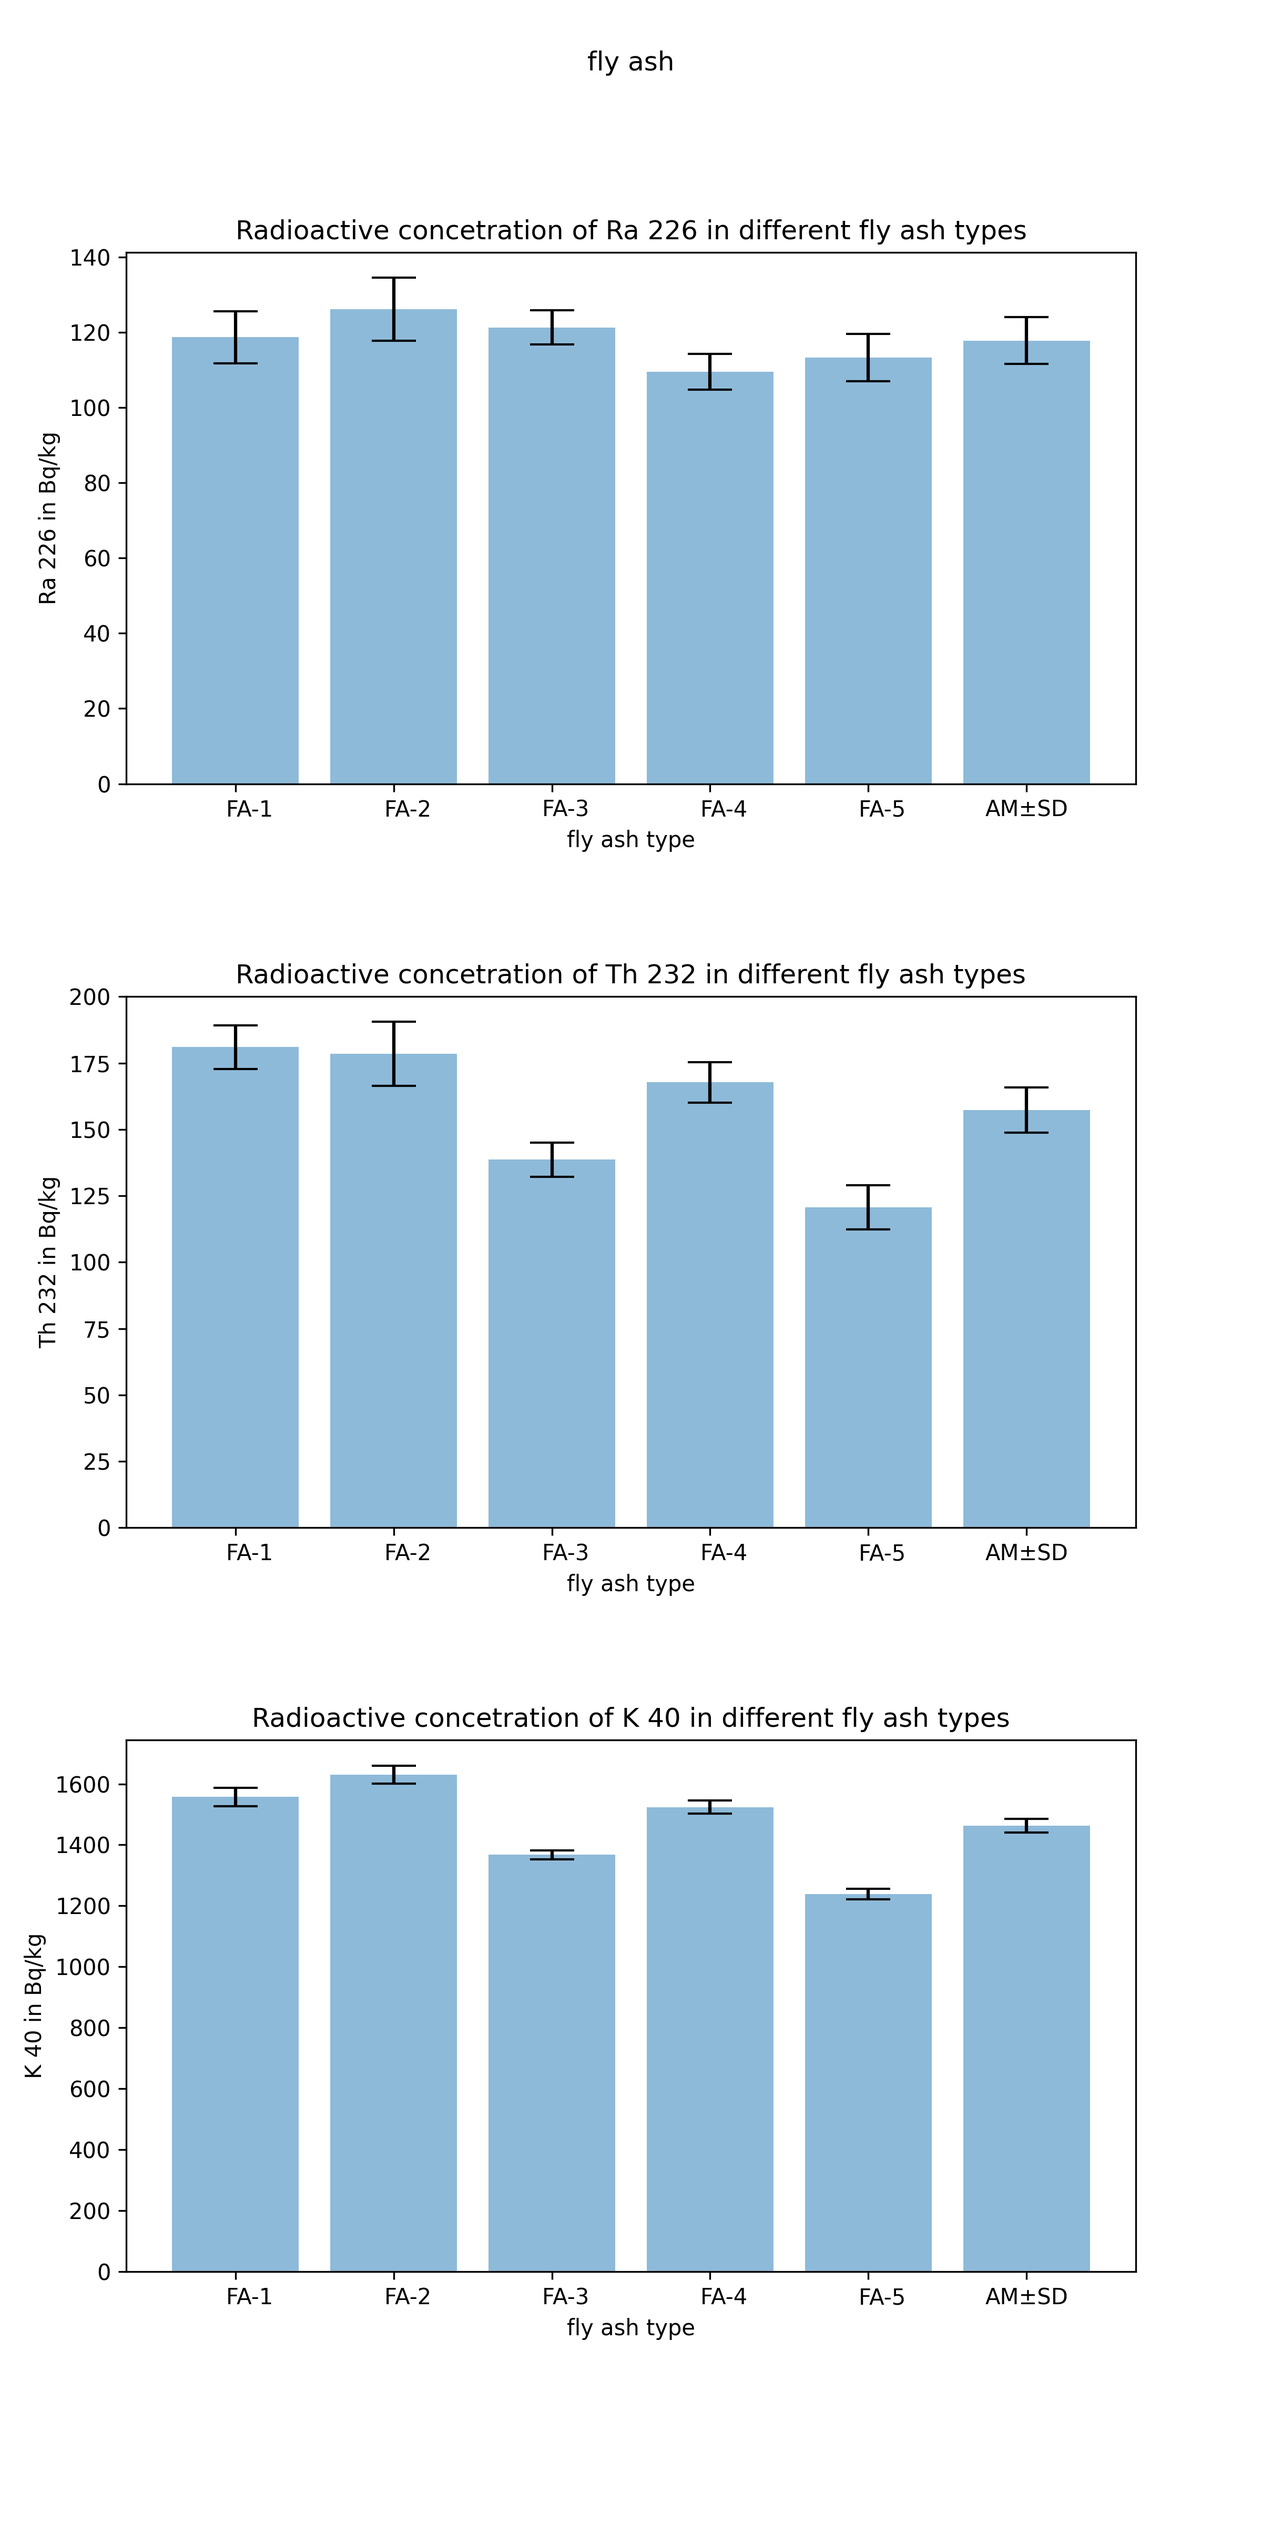
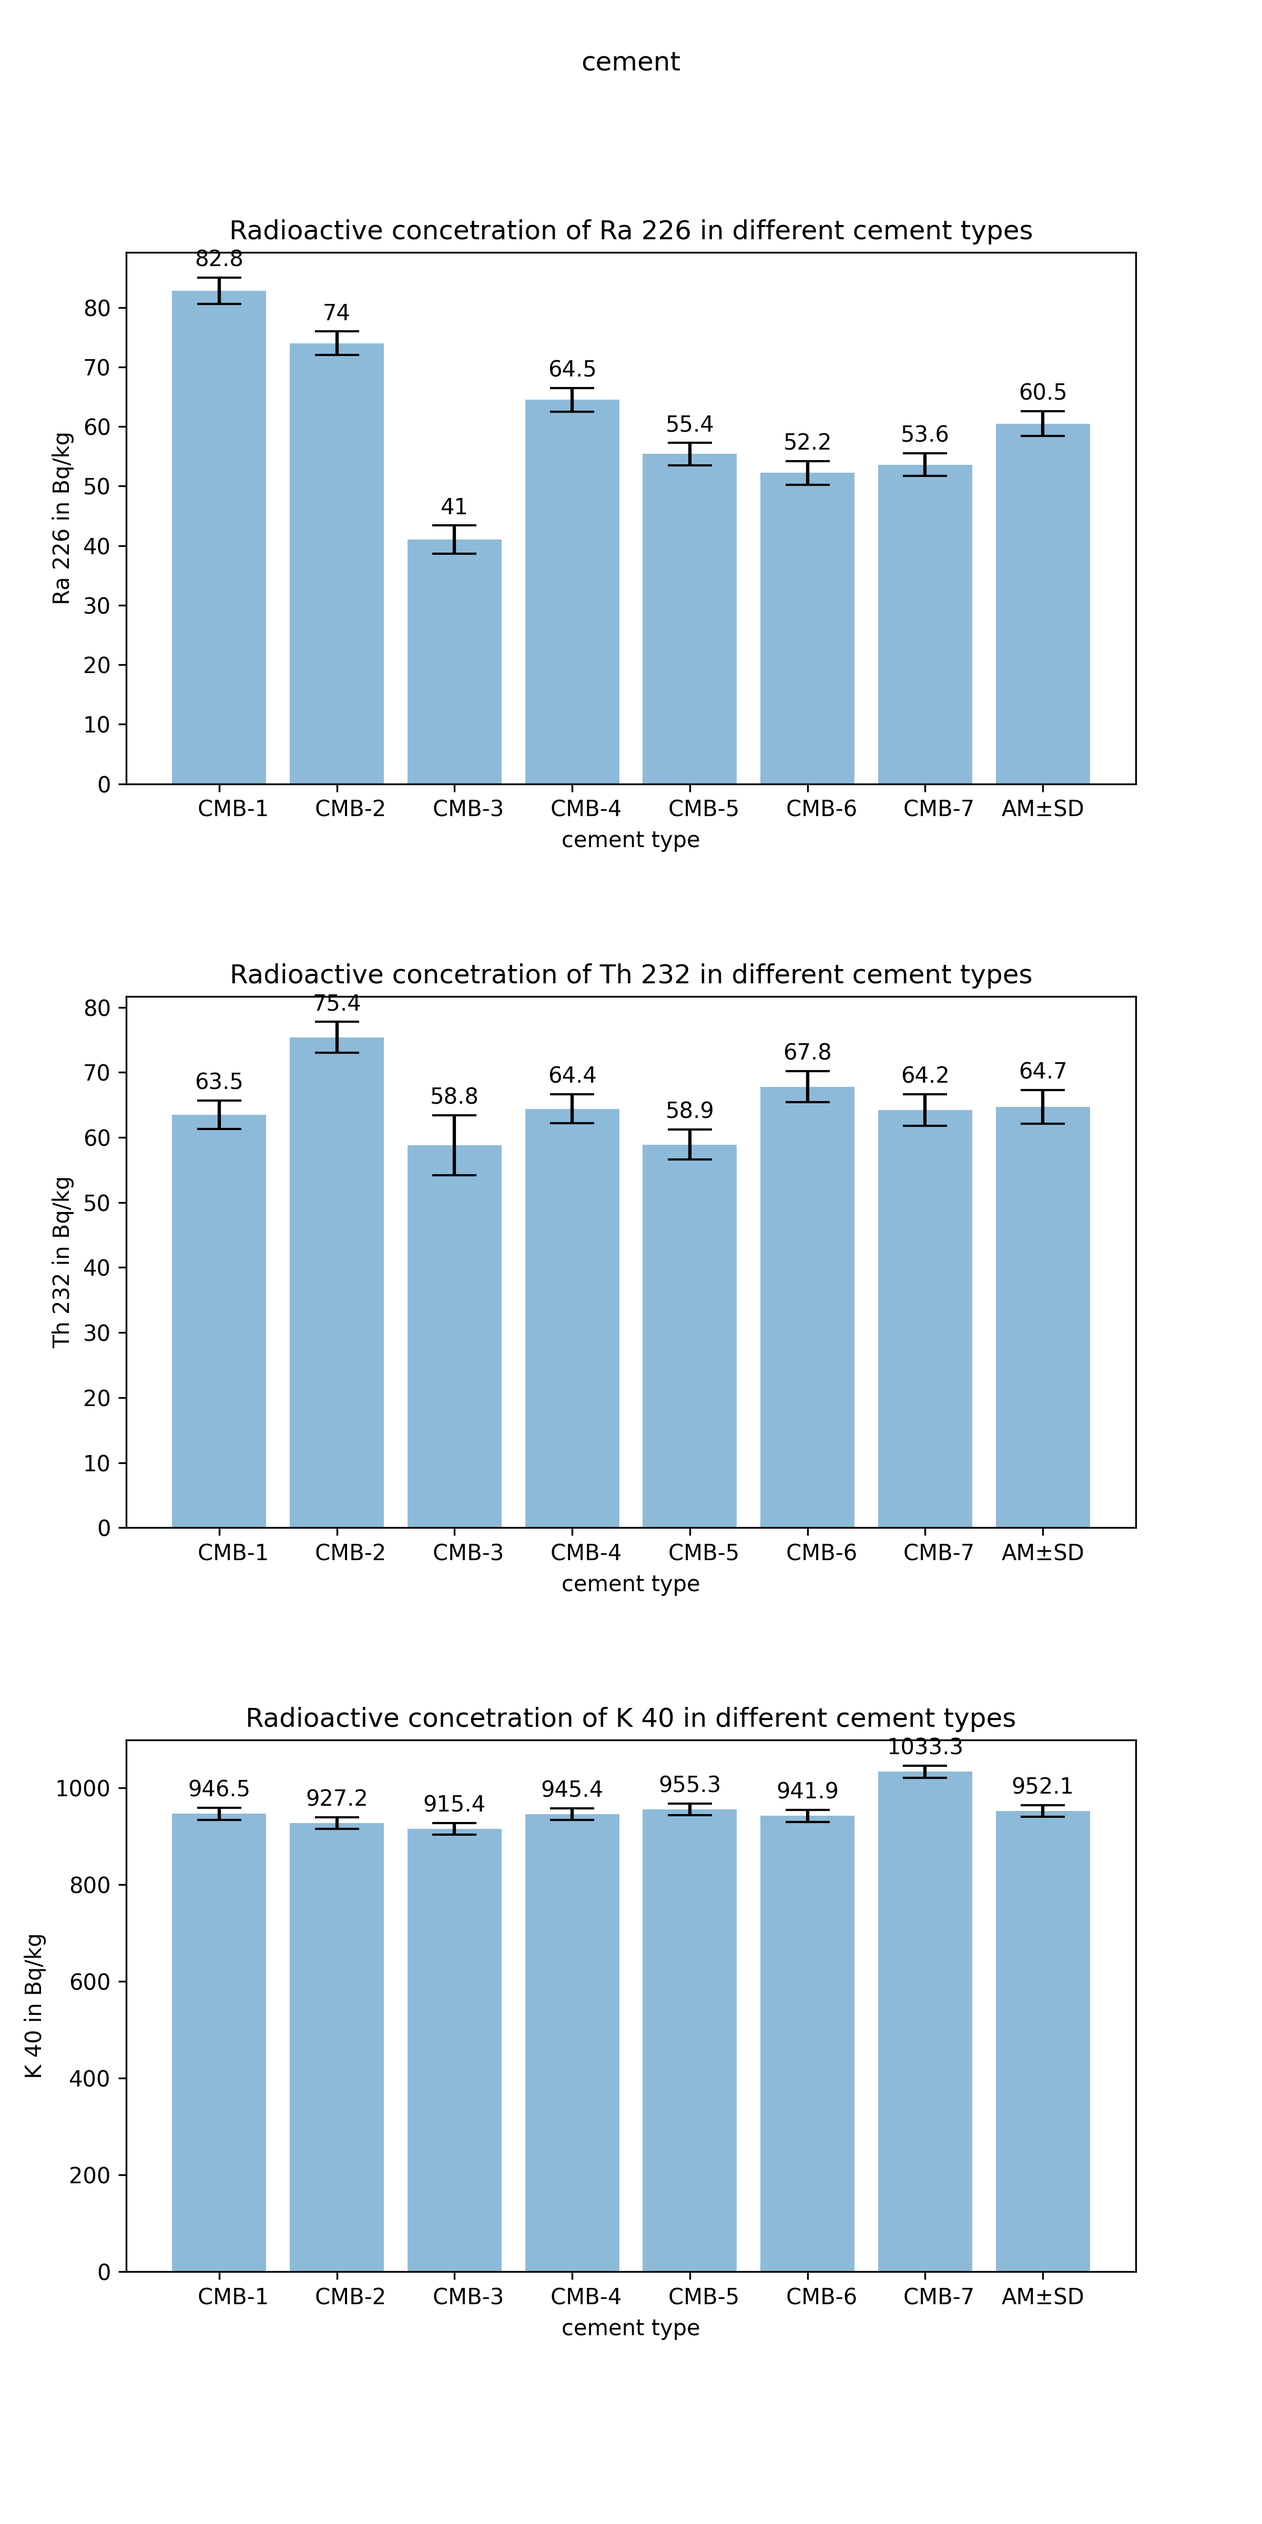
update 4

diff --git a/datenbanken.py b/datenbanken.py
@@ -12,10 +12,12 @@ df2 = pd.read_excel('https://figshare.com/ndownloader/files/2364329')
 df3 = pd.read_excel('https://figshare.com/ndownloader/files/2364330')
 
 column_sample_type = '<b> Sample</b>'
-column_Ra_226 = "<b>Radioactivity concentration (Bq kg<sup>&#8211;1</sup>)</b>"
-column_Th_232 = "Unnamed: 2"
-column_K_40 = "Unnamed: 3"
+column_Ra_226_df1 = '<b>Radioactivity concentration (Bq kg<sup>&#8211;1</sup>)</b>'
+column_Ra_226_df3 = '<b>Radioactivity concentration (Bq kg<sup>&#8722;1</sup>)</b>'
+column_Th_232 = 'Unnamed: 2'
+column_K_40 = 'Unnamed: 3'
 
+'''
 new_df_cement_sample_coloumn_name = "Cement Sample"
 new_df_fly_ash_sample_coloumn_name = "Fly ash Sample"
 new_df_Ra_226_value_coloumn_name = "Ra 226 Value"
@@ -24,10 +26,20 @@ new_df_Th_232_value_coloumn_name = "Th 232 Value"
 new_df_Th_232_std_div_coloumn_name = "Th 232 standard deviation"
 new_df_K_40_value_coloumn_name = "K 40 Value"
 new_df_K_40_std_div_coloumn_name = "K 40 standard deviation"
+'''
 
-column_name_arr = ["Ra 226 Value", "Ra 226 standard deviation",
-                   "Th 232 Value", "Th 232 standard deviation", "K 40 Value", "K 40 standard deviation"]
-sample_name_arr = ["Cement Sample", "Fly ash Sample"]
+column_name_arr_df1 = ['Ra 226 Value', 'Ra 226 standard deviation',
+                       'Th 232 Value', 'Th 232 standard deviation', 'K 40 Value', 'K 40 standard deviation']
+sample_name_arr_df1 = ['Cement Sample', 'Fly ash Sample']
+
+column_sample_type_df2 = '<b>Sample</b>'
+column_sample_Ra_226_df2 = '<b>Radium equivalent activity (Bq kg<sup>&#8722;1</sup>)</b>'
+column_H_ex = '<b>Hazard index</b>'
+column_H_in = 'Unnamed: 3'
+column_D_in = '<b>Indoor absorbed dose rate (nGy h<sup>&#8722;1</sup>)</b>'
+column_E_in = '<b>Annual effective dose (mSv y<sup>&#8722;1</sup>)</b>'
+colmun_I_a = '<b>Alpha index</b>'
+column_I_y = '<b>Gamma index</b>'
 
 
 def data_filter(data, column_index_string):
@@ -37,15 +49,19 @@ def data_filter(data, column_index_string):
     data1 = []
     for element in data.index:
         str1 = data.loc[element, column_index_string]
-        for i in range(len(str1)-1):
-            if (str1[i] == "±"):
-                break
-            str2 += str1[i]
-        data1.append(float(str2))
-        str2 = ""
+        if (str(str1).find('-') == True):
+            continue
+        else:
+            for i in range(len(str1)):
+                if (str1[i] == "±"):
+                    break
+                str2 += str1[i]
+            data1.append(float(str2))
+            str2 = ""
     return (data1)
 
 
+'''
 def error_filter(data, column_index_string):
     # Write your solution here and remove pass
     str1 = ""
@@ -59,6 +75,30 @@ def error_filter(data, column_index_string):
             str2 += str1[i]
         error1.append(float(str2[::-1]))
         str2 = ""
+    return (error1)
+'''
+
+
+def error_filter(data, column_index_string):
+    # Write your solution here and remove pass
+    str1 = ""
+    str2 = ""
+    error1 = []
+
+    for element in data.index:
+        str1 = data.loc[element, column_index_string]
+        if (str(str1).find('-') != -1):
+            continue
+        elif (str(str1).find('±') == -1):
+            error1.append(float(0))
+            continue
+        else:
+            for i in range(len(str1)-1, 0, -1):  # reverse
+                if (str1[i] == "±"):
+                    break
+                str2 += str1[i]
+            error1.append(float(str2[::-1]))
+            str2 = ""
     return (error1)
 
 
@@ -90,55 +130,67 @@ def create_dataframe1(sample_name, column_name_arr, row_type_arr, Ra_226_val_arr
     return (new_df)
 
 
-error1_vektor_cement_Ra_226 = error_filter(df1[2:9], column_Ra_226)
-error1_vektor_cement_Ra_226.append(round((sum(error1_vektor_cement_Ra_226)/len(error1_vektor_cement_Ra_226)), 1))
+def create_dataframe3(Sample, column_name_arr_df3, row_type_arr, Ra_226_val_arr, Ra_226_std_dev_arr, Th_232_val_arr, Th_232_std_dev_arr, K_40_val_arr, K_40_std_dev_arr):
+
+    return ()
+
+
+error1_vektor_cement_Ra_226 = error_filter(df1[2:9], column_Ra_226_df1)
+error1_vektor_cement_Ra_226.append(
+    round((sum(error1_vektor_cement_Ra_226)/len(error1_vektor_cement_Ra_226)), 1))
 error2_vektor_cement_Th_232 = error_filter(df1[2:9], column_Th_232)
-error2_vektor_cement_Th_232.append(round((sum(error2_vektor_cement_Th_232)/len(error2_vektor_cement_Th_232)), 1))
+error2_vektor_cement_Th_232.append(
+    round((sum(error2_vektor_cement_Th_232)/len(error2_vektor_cement_Th_232)), 1))
 error3_vektor_cement_K_40 = error_filter(df1[2:9], column_K_40)
-error3_vektor_cement_K_40.append(round((sum(error3_vektor_cement_K_40)/len(error3_vektor_cement_K_40)), 1))
+error3_vektor_cement_K_40.append(
+    round((sum(error3_vektor_cement_K_40)/len(error3_vektor_cement_K_40)), 1))
 # print(best_ranking(df1[2:9]))
 # chart = sns.barplot(data = df1, x= df1[2:9]['<b> Sample</b>'],  y = data_filter(df1[2:9]), errorbar=None)
 add_row = pd.Series(["AM±SD"])
 x_cement = df1[2:9][column_sample_type]
 x_cement = pd.concat([x_cement, add_row], ignore_index=True)
 
-y_cement_Ra_226 = data_filter(df1[2:9], column_Ra_226)
+y_cement_Ra_226 = data_filter(df1[2:9], column_Ra_226_df1)
 y_cement_Ra_226.append(round((sum(y_cement_Ra_226)/len(y_cement_Ra_226)), 1))
 y_cement_Th_232 = data_filter(df1[2:9], column_Th_232)
 y_cement_Th_232.append(round((sum(y_cement_Th_232)/len(y_cement_Th_232)), 1))
 y_cement_K_40 = data_filter(df1[2:9], column_K_40)
 y_cement_K_40.append(round((sum(y_cement_K_40)/len(y_cement_K_40)), 1))
 
-cement_df = create_dataframe1(sample_name_arr[0], column_name_arr, x_cement,  y_cement_Ra_226, error1_vektor_cement_Ra_226,
+cement_df = create_dataframe1(sample_name_arr_df1[0], column_name_arr_df1, x_cement,  y_cement_Ra_226, error1_vektor_cement_Ra_226,
                               y_cement_Th_232, error2_vektor_cement_Th_232, y_cement_K_40, error3_vektor_cement_K_40)
 
 fig, ax = plt.subplots(3)
-ax[0].bar(x_cement, y_cement_Ra_226, yerr=error1_vektor_cement_Ra_226,
+cement_Ra_226_bar = ax[0].bar(x_cement, y_cement_Ra_226, yerr=error1_vektor_cement_Ra_226,
           align='center', alpha=0.5, ecolor='black', capsize=10)
 ax[0].set_ylabel("Ra 226 in Bq/kg")
 ax[0].set_xlabel("cement type")
 ax[0].set_title('Radioactive concetration of Ra 226 in different cement types')
 
-ax[1].bar(x_cement, y_cement_Th_232, yerr=error2_vektor_cement_Th_232,
+cement_Th_232_bar = ax[1].bar(x_cement, y_cement_Th_232, yerr=error2_vektor_cement_Th_232,
           align='center', alpha=0.5, ecolor='black', capsize=10)
 ax[1].set_ylabel("Th 232 in Bq/kg")
 ax[1].set_xlabel("cement type")
 ax[1].set_title('Radioactive concetration of Th 232 in different cement types')
 
-ax[2].bar(x_cement, y_cement_K_40, yerr=error3_vektor_cement_K_40,
+cement_K_40_bar = ax[2].bar(x_cement, y_cement_K_40, yerr=error3_vektor_cement_K_40,
           align='center', alpha=0.5, ecolor='black', capsize=10)
 ax[2].set_ylabel("K 40 in Bq/kg")
 ax[2].set_xlabel("cement type")
 ax[2].set_title('Radioactive concetration of K 40 in different cement types')
 
-plt.subplots_adjust(left=0.1, bottom=0.1, right=0.9,
+ax[0].bar_label(cement_Ra_226_bar, padding=3)
+ax[1].bar_label(cement_Th_232_bar, padding=3)
+ax[2].bar_label(cement_K_40_bar, padding=3)
+
+fig.subplots_adjust(left=0.1, bottom=0.1, right=0.9,
                     top=0.9, wspace=0.4, hspace=0.4)
 fig.set_size_inches(8, 16)
 fig.suptitle('cement')
-plt.savefig('figure.png', dpi=300)
+fig.savefig('figure.png', dpi=300)
 
 
-error1_vektor_fly_ash_Ra_226 = error_filter(df1[11:16], column_Ra_226)
+error1_vektor_fly_ash_Ra_226 = error_filter(df1[11:16], column_Ra_226_df1)
 error1_vektor_fly_ash_Ra_226.append(
     round((sum(error1_vektor_fly_ash_Ra_226)/len(error1_vektor_fly_ash_Ra_226)), 1))
 error2_vektor_fly_ash_Th_232 = error_filter(df1[11:16], column_Th_232)
@@ -153,7 +205,7 @@ error3_vektor_fly_ash_K_40.append(
 x_fly_ash = df1[11:16][column_sample_type]
 x_fly_ash = pd.concat([x_fly_ash, add_row], ignore_index=True)
 
-y_fly_ash_Ra_226 = data_filter(df1[11:16], column_Ra_226)
+y_fly_ash_Ra_226 = data_filter(df1[11:16], column_Ra_226_df1)
 y_fly_ash_Ra_226.append(
     round((sum(y_fly_ash_Ra_226)/len(y_fly_ash_Ra_226)), 1))
 y_fly_ash_Th_232 = data_filter(df1[11:16], column_Th_232)
@@ -162,38 +214,139 @@ y_fly_ash_Th_232.append(
 y_fly_ash_K_40 = data_filter(df1[11:16], column_K_40)
 y_fly_ash_K_40.append(round((sum(y_fly_ash_K_40)/len(y_fly_ash_K_40)), 1))
 
-fly_ash_df = create_dataframe1(sample_name_arr[1], column_name_arr, x_fly_ash,  y_fly_ash_Ra_226, error1_vektor_fly_ash_Ra_226,
+fly_ash_df = create_dataframe1(sample_name_arr_df1[1], column_name_arr_df1, x_fly_ash,  y_fly_ash_Ra_226, error1_vektor_fly_ash_Ra_226,
                                y_fly_ash_Th_232, error2_vektor_fly_ash_Th_232, y_fly_ash_K_40, error3_vektor_fly_ash_K_40)
 
-fig, ax = plt.subplots(3)
-ax[0].bar(x_fly_ash, y_fly_ash_Ra_226, yerr=error1_vektor_fly_ash_Ra_226,
-          align='center', alpha=0.5, ecolor='black', capsize=10)
+fig1, ax = plt.subplots(3)
+fly_ash_Ra_226_bar = ax[0].bar(x_fly_ash, y_fly_ash_Ra_226, yerr=error1_vektor_fly_ash_Ra_226,
+                                align='center', alpha=0.5, ecolor='black', capsize=10)
 ax[0].set_ylabel("Ra 226 in Bq/kg")
 ax[0].set_xlabel("fly ash type")
 ax[0].set_title(
     'Radioactive concetration of Ra 226 in different fly ash types')
 
-ax[1].bar(x_fly_ash, y_fly_ash_Th_232, yerr=error2_vektor_fly_ash_Th_232,
-          align='center', alpha=0.5, ecolor='black', capsize=10)
+fly_ash_Th_232_bar = ax[1].bar(x_fly_ash, y_fly_ash_Th_232, yerr=error2_vektor_fly_ash_Th_232,
+                                align='center', alpha=0.5, ecolor='black', capsize=10)
 ax[1].set_ylabel("Th 232 in Bq/kg")
 ax[1].set_xlabel("fly ash type")
 ax[1].set_title(
     'Radioactive concetration of Th 232 in different fly ash types')
 
-ax[2].bar(x_fly_ash, y_fly_ash_K_40, yerr=error3_vektor_fly_ash_K_40,
-          align='center', alpha=0.5, ecolor='black', capsize=10)
+fly_ash_K_40_bar = ax[2].bar(x_fly_ash, y_fly_ash_K_40, yerr=error3_vektor_fly_ash_K_40,
+                              align='center', alpha=0.5, ecolor='black', capsize=10)
 ax[2].set_ylabel("K 40 in Bq/kg")
 ax[2].set_xlabel("fly ash type")
 ax[2].set_title('Radioactive concetration of K 40 in different fly ash types')
 
-plt.subplots_adjust(left=0.1, bottom=0.1, right=0.9,
-                    top=0.9, wspace=0.4, hspace=0.4)
-fig.set_size_inches(8, 16)
-fig.suptitle('fly ash')
-plt.savefig('figure1.png', dpi=300)
+ax[0].bar_label(fly_ash_Ra_226_bar, padding=3)
+ax[1].bar_label(fly_ash_Th_232_bar, padding=3)
+ax[2].bar_label(fly_ash_K_40_bar, padding=3)
+
+fig1.subplots_adjust(left=0.1, bottom=0.1, right=0.9,
+                     top=0.9, wspace=0.4, hspace=0.4)
+fig1.set_size_inches(8, 16)
+fig1.suptitle('fly ash')
+fig.savefig('figure1.png', dpi=300)
 
 # create_dataframe(new_df_cement_sample_coloumn_name, x_cement, new_df_Ra_226_value_coloumn_name, y_cement_Ra_226, new_df_Ra_226_std_div_coloumn_name, error1_vektor_cement_Ra_226)
 pie_fig, ax = plt.subplots(1)
-ax = plt.pie(cement_df.loc[7,["Ra 226 Value", "Th 232 Value", "K 40 Value"]], labels = ['Ra_226','Th_232','K_40'])
-plt.savefig('figure2.png', dpi=300)
+ax = plt.pie(cement_df.loc[7, ["Ra 226 Value", "Th 232 Value", "K 40 Value"]], labels=[
+             'Ra_226', 'Th_232', 'K_40'])
+pie_fig.savefig('figure2.png', dpi=300)
+# df2
+# cement
+y_cement_H_ex = data_filter(df2[2:10], column_H_ex)
+y_cement_H_ex_error = error_filter(df2[2:10], column_H_ex)
+y_cement_H_in = data_filter(df2[2:10], column_H_in)
+y_cement_H_in_error = error_filter(df2[2:10], column_H_in)
+
+threshold_fig_cement, ax = plt.subplots(1)
+
+threshold = 1
+
+x_cement_label = np.arange(len(x_cement))
+
+y_cement_H_ex = np.asarray(y_cement_H_ex)
+y_cement_H_in = np.asarray(y_cement_H_in)
+
+a_threshold_Hex = np.maximum(y_cement_H_ex - threshold, 0)
+b_threshold_Hex = np.minimum(y_cement_H_ex, threshold)
+
+a_threshold_Hin = np.maximum(y_cement_H_in - threshold, 0)
+b_threshold_Hin = np.minimum(y_cement_H_in, threshold)
+
+width = 0.35
+
+
+cement_bar_1 = ax.bar(x_cement_label - width/2, b_threshold_Hex,
+                      width,  color='lime', align='center', alpha=0.5, label='Hex')
+cement_bar_2 = ax.bar(x_cement_label - width/2, a_threshold_Hex, width, yerr=y_cement_H_ex_error,
+                      color='orange', align='center', alpha=0.5, capsize=10, bottom=b_threshold_Hex)
+cement_bar_3 = ax.bar(x_cement_label + width/2, b_threshold_Hin,
+                      width,  color='green', align='center', alpha=0.5, label='Hin')
+cement_bar_4 = ax.bar(x_cement_label + width/2, a_threshold_Hin, width, yerr=y_cement_H_in_error,
+                      color='red', align='center', alpha=0.5, capsize=10, bottom=b_threshold_Hin)
+
+plt.axhline(threshold, color='black', ls='solid')
+
+ax.set_xticks(x_cement_label, x_cement)
+ax.legend()
+
+# ax.bar_label(fly_ash_bar_1, padding=3)
+ax.bar_label(cement_bar_2, padding=3)
+# ax.bar_label(fly_ash_bar_3, padding=3)
+ax.bar_label(cement_bar_4, padding=3)
+plt.tight_layout()
+
+threshold_fig_cement.savefig("figure3")
+
+# fly ash
+y_fly_ash_H_ex = data_filter(df2[11:17], column_H_ex)
+y_fly_ash_H_ex_error = error_filter(df2[11:17], column_H_ex)
+y_fly_ash_H_in = data_filter(df2[11:17], column_H_in)
+y_fly_ash_H_in_error = error_filter(df2[11:17], column_H_in)
+
+threshold_fig_fly_ash, ax = plt.subplots(1)
+
+threshold = 1
+
+x_fly_ash_label = np.arange(len(x_fly_ash))
+
+y_fly_ash_H_ex = np.asarray(y_fly_ash_H_ex)
+y_fly_ash_H_in = np.asarray(y_fly_ash_H_in)
+
+a_threshold_Hex = np.maximum(y_fly_ash_H_ex - threshold, 0)
+b_threshold_Hex = np.minimum(y_fly_ash_H_ex, threshold)
+
+a_threshold_Hin = np.maximum(y_fly_ash_H_in - threshold, 0)
+b_threshold_Hin = np.minimum(y_fly_ash_H_in, threshold)
+
+width = 0.35
+# rects1 = ax.bar(x_cement - width/2, a_threshold_Hex, width, )
+# rects2 = ax.bar(x_cement + width/2, a_threshold_Hin, width, label='Hex')
+
+
+fly_ash_bar_1 = ax.bar(x_fly_ash_label - width/2, b_threshold_Hex,
+                       width, color='lime', align='center', alpha=0.5, label='Hex')
+fly_ash_bar_2 = ax.bar(x_fly_ash_label - width/2, a_threshold_Hex, width, yerr=y_fly_ash_H_ex_error,
+                       color='orange', alpha=0.5,  ecolor='black', capsize=10, bottom=b_threshold_Hex)
+fly_ash_bar_3 = ax.bar(x_fly_ash_label + width/2, b_threshold_Hin,
+                       width, color='green', align='center', alpha=0.5,  label='Hin')
+fly_ash_bar_4 = ax.bar(x_fly_ash_label + width/2, a_threshold_Hin, width, yerr=y_fly_ash_H_in_error,
+                       color='red', alpha=0.5, ecolor='black', capsize=10, bottom=b_threshold_Hin)
+
+plt.axhline(threshold, color='black', ls='solid')
+
+ax.set_xticks(x_fly_ash_label, x_fly_ash)
+plt.legend()
+
+# ax.bar_label(fly_ash_bar_1, padding=3)
+ax.bar_label(fly_ash_bar_2, padding=3)
+# ax.bar_label(fly_ash_bar_3, padding=3)
+ax.bar_label(fly_ash_bar_4, padding=3)
+
+threshold_fig_fly_ash.tight_layout()
+threshold_fig_fly_ash.savefig("figure4")
+# df3
+
 plt.show()
